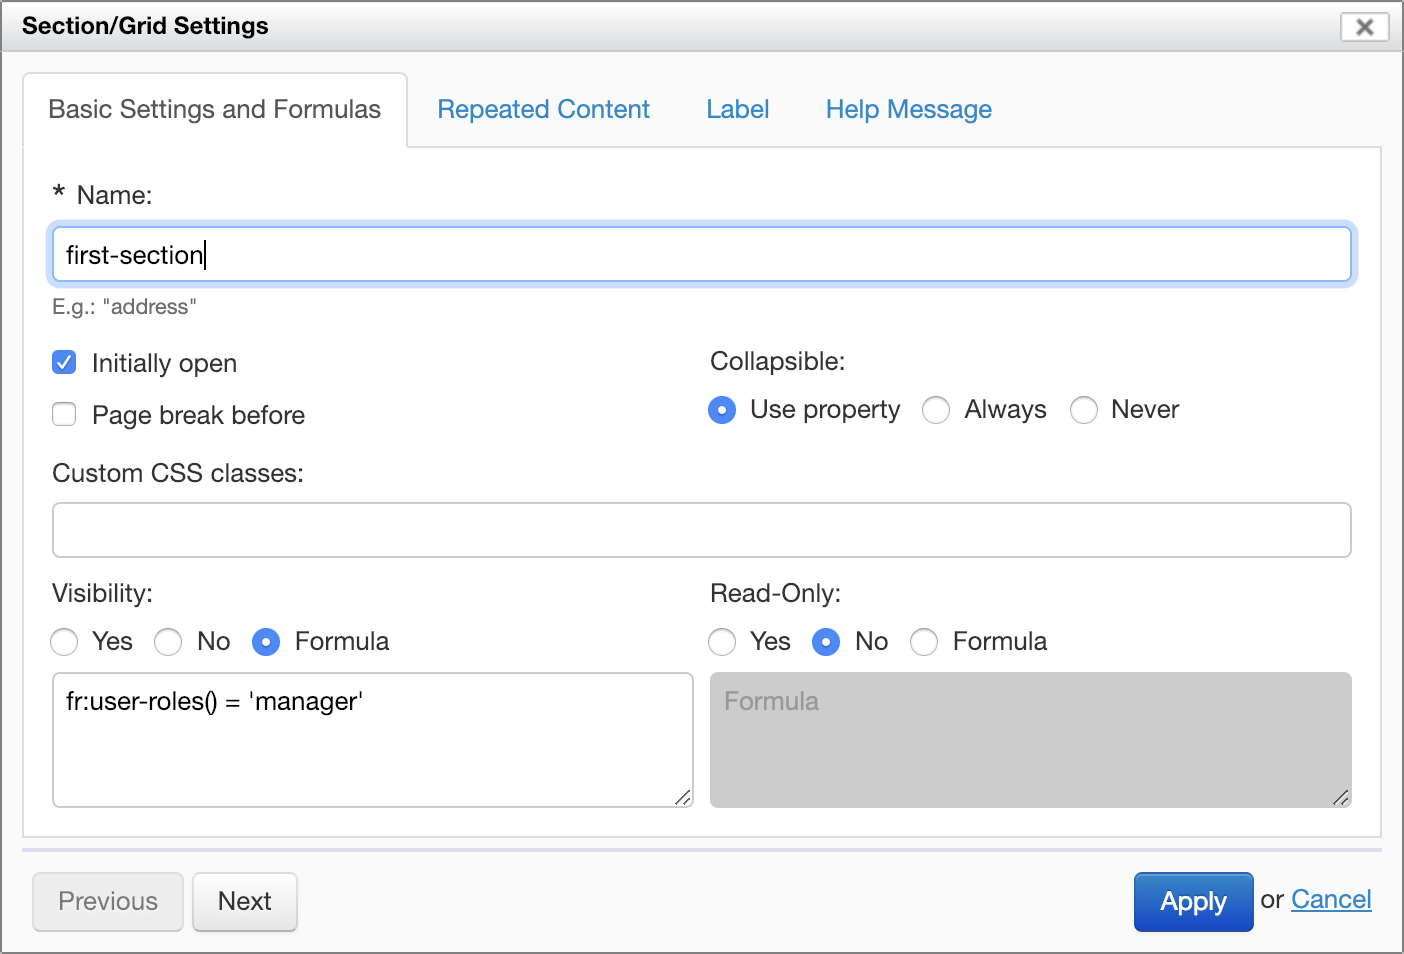
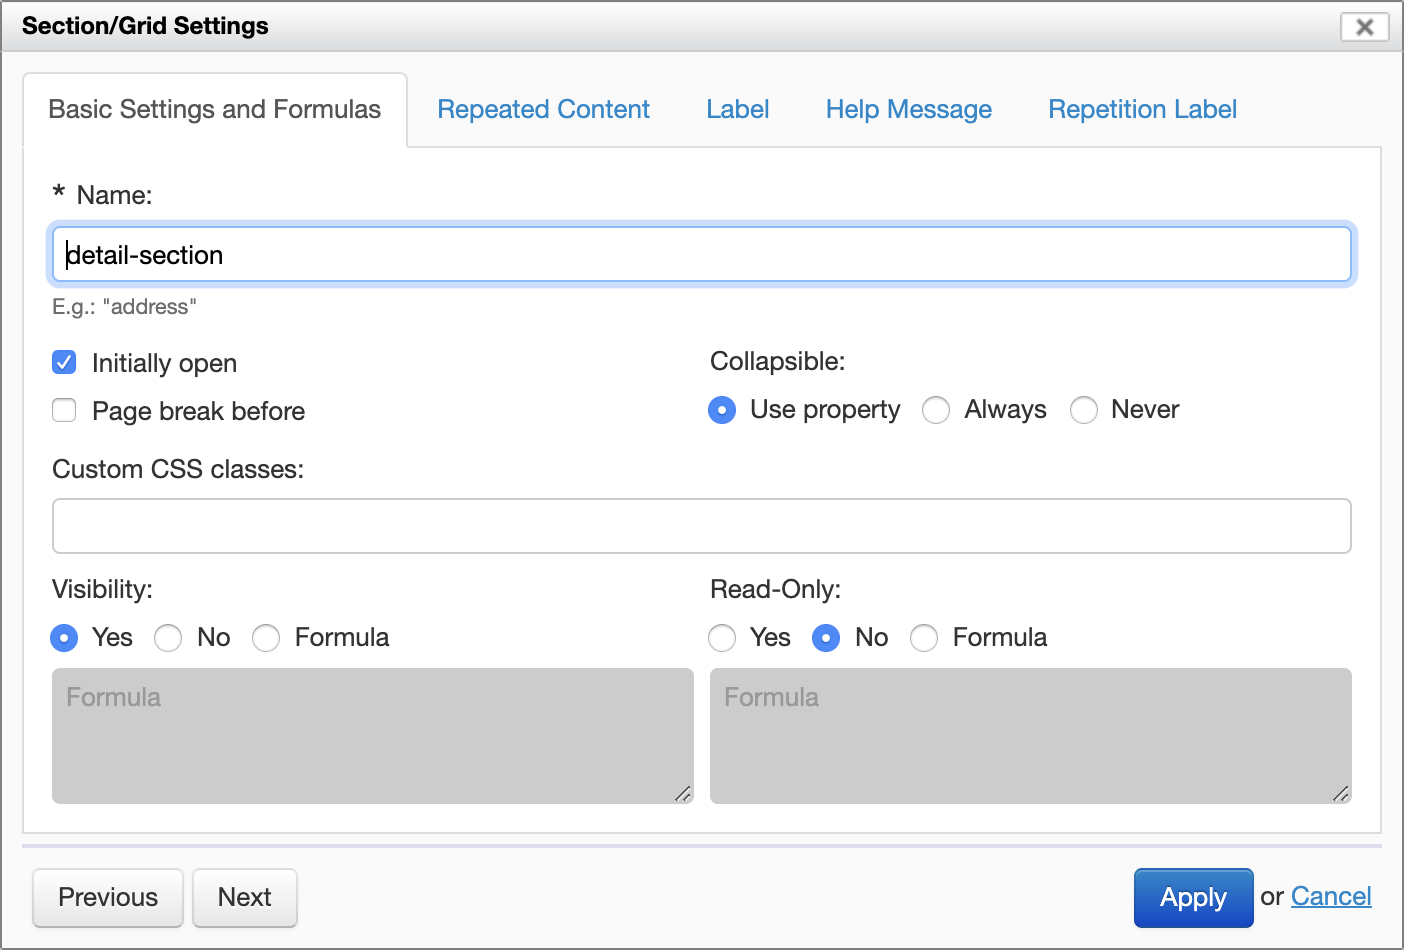
Iteration labels and updated screenshot

diff --git a/form-builder/section-settings.md b/form-builder/section-settings.md
@@ -14,7 +14,7 @@ See [Section and grid settings](container-settings.md).
 
 \[SINCE Orbeon Forms 2016.1\]
 
-The following only applies when the form doesn't use the [Wizard view](../form-runner/feature/wizard-view.md).
+The following only applies when the form doesn't use the [Wizard view](/form-runner/feature/wizard-view.md).
 
 A section can be open/expanded or closed/collapsed. By default, sections are open when the form loads, unless the "Initially open" checkbox is *deselected*.
 
@@ -38,13 +38,25 @@ The help message is configured in the "Help Message" tab. Similarly, the help me
 
 [SINCE Orbeon Forms 2018.1]
 
-Sections support *dynamic* labels and help messages. This means that, instead of being specified once and for all at form design time, labels and help messages can incorporate dynamic parts such as control values and other custom expressions.
+In most cases, labels and help are simply localized messages without dynamic parts.
+
+However, sections also support *dynamic* labels and help messages. This means that, instead of being specified once and for all at form design time, labels and help messages can incorporate dynamic parts such as control values and other custom expressions.
 
 For more, see [Template syntax](template-syntax.md).
 
 ![](images/section-settings-label.png)
 
 ![](images/section-settings-help.png)
+
+### Dynamic iteration label
+
+[SINCE Orbeon Forms 2019.2]
+
+For sections with repeated content, the "Repetition Label" tab allows you to set a label that applies to individual repetitions. Typically this label will use a templates so that values from the repeated content can be used.
+
+When using the [Wizard view](/form-runner/feature/wizard-view.md), repetition labels will show in the Wizard's table of contents.
+
+![](images/section-settings-repetition-label.png)
 
 ## See also
 

diff --git a/form-builder/repeat-settings.md b/form-builder/repeat-settings.md
@@ -9,7 +9,7 @@ Form Builder supports grids and sections with repeated content.
 
 Both repeated grids and repeated sections have *repeat settings* in the "Section/Grids Settings" dialog's "Repeated Content" tab.
 
-![Repeated Content](images/repeat-settings.png)
+![Repeated Content](images/section-settings-repeated-content.png)
 
 ## Repeat Content
 
